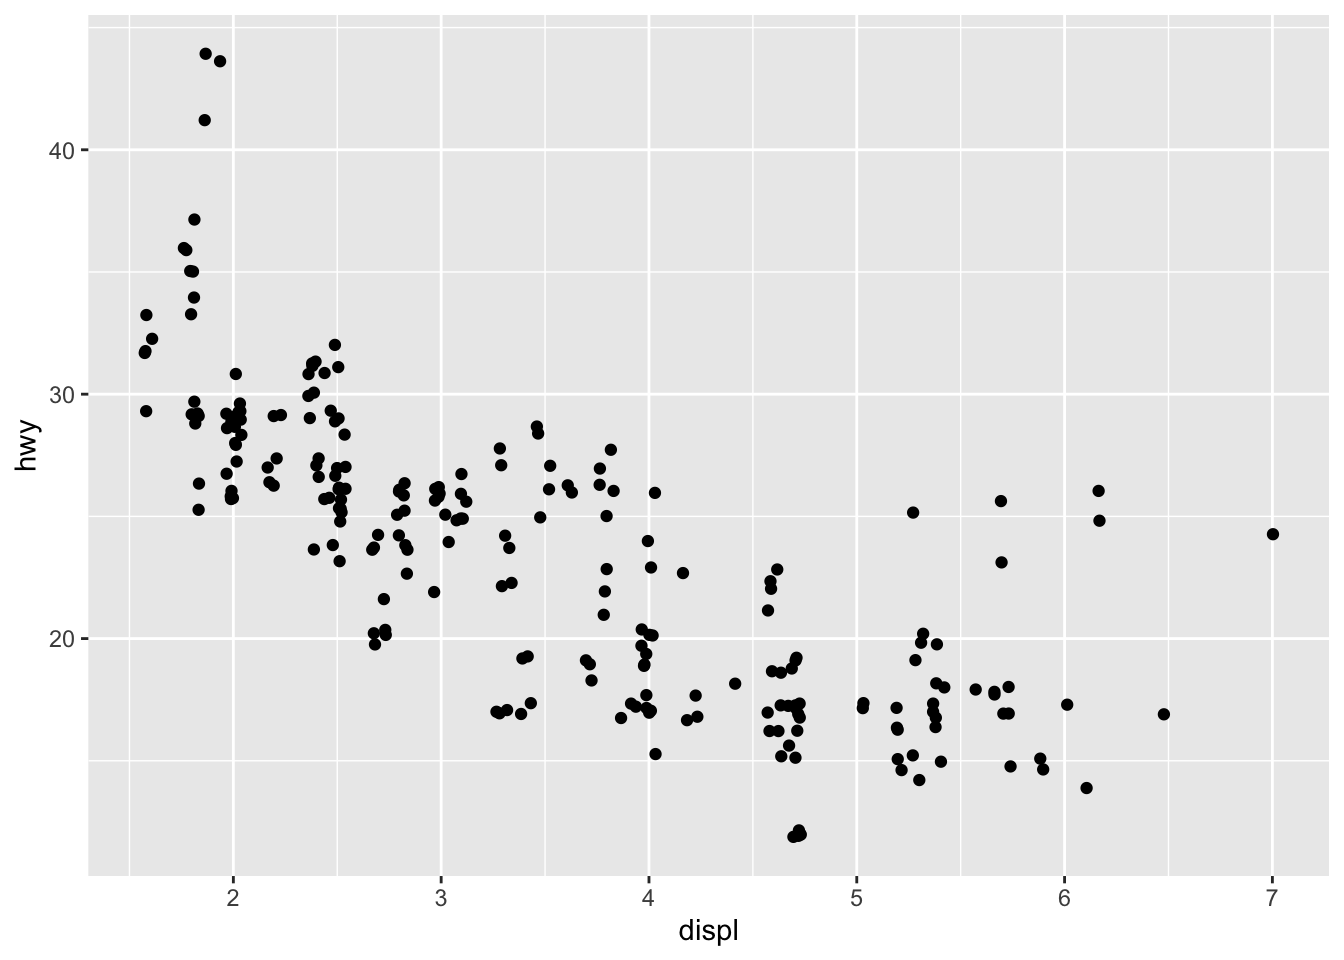
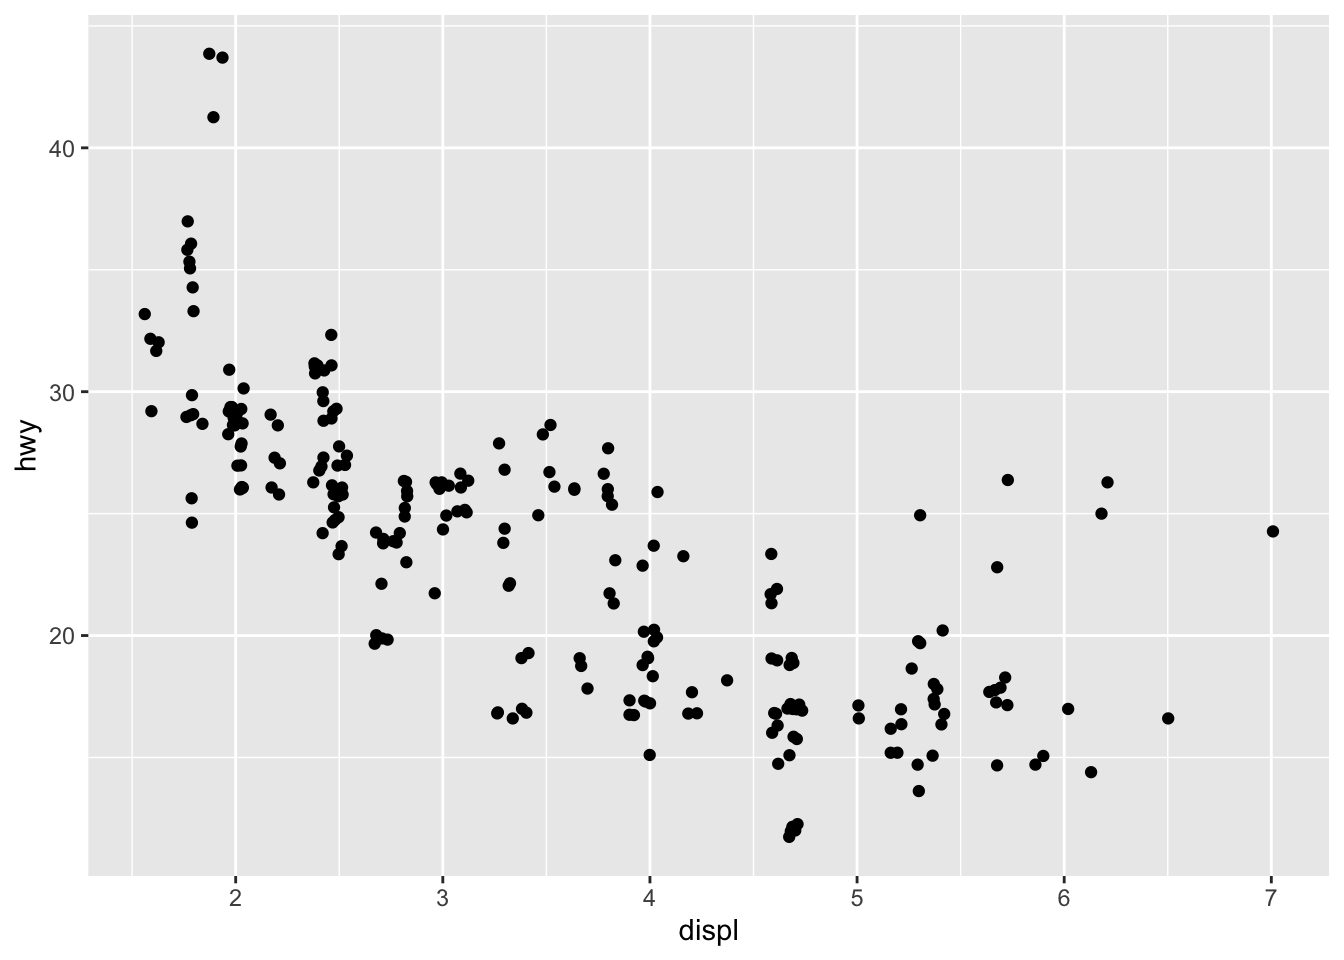
Exercícios: adiciona exercícios da Página 33

diff --git a/exercicios_cap_01.html b/exercicios_cap_01.html
@@ -69,15 +69,58 @@ pre > code.sourceCode > span > a:first-child::before { text-decoration: underlin
 <link href="exercicios_cap_01_files/libs/quarto-html/quarto-syntax-highlighting-ed96de9b727972fe78a7b5d16c58bf87.css" rel="stylesheet" id="quarto-text-highlighting-styles">
 <script src="exercicios_cap_01_files/libs/bootstrap/bootstrap.min.js"></script>
 <link href="exercicios_cap_01_files/libs/bootstrap/bootstrap-icons.css" rel="stylesheet">
-<link href="exercicios_cap_01_files/libs/bootstrap/bootstrap-d6a003b94517c951b2d65075d42fb01b.min.css" rel="stylesheet" append-hash="true" id="quarto-bootstrap" data-mode="light">
+<link href="exercicios_cap_01_files/libs/bootstrap/bootstrap-a74871fe4945b66d259aafc266475145.min.css" rel="stylesheet" append-hash="true" id="quarto-bootstrap" data-mode="light">
 
+  <script src="https://cdnjs.cloudflare.com/polyfill/v3/polyfill.min.js?features=es6"></script>
+  <script src="https://cdn.jsdelivr.net/npm/mathjax@3/es5/tex-chtml-full.js" type="text/javascript"></script>
+
+<script type="text/javascript">
+const typesetMath = (el) => {
+  if (window.MathJax) {
+    // MathJax Typeset
+    window.MathJax.typeset([el]);
+  } else if (window.katex) {
+    // KaTeX Render
+    var mathElements = el.getElementsByClassName("math");
+    var macros = [];
+    for (var i = 0; i < mathElements.length; i++) {
+      var texText = mathElements[i].firstChild;
+      if (mathElements[i].tagName == "SPAN" && texText && texText.data) {
+        window.katex.render(texText.data, mathElements[i], {
+          displayMode: mathElements[i].classList.contains('display'),
+          throwOnError: false,
+          macros: macros,
+          fleqn: false
+        });
+      }
+    }
+  }
+}
+window.Quarto = {
+  typesetMath
+};
+</script>
 
 </head>
 
-<body class="fullcontent quarto-light">
+<body class="quarto-light">
 
 <div id="quarto-content" class="page-columns page-rows-contents page-layout-article">
-
+<div id="quarto-margin-sidebar" class="sidebar margin-sidebar">
+  <nav id="TOC" role="doc-toc" class="toc-active">
+    <h2 id="toc-title">Table of contents</h2>
+   
+  <ul>
+  <li><a href="#página-6" id="toc-página-6" class="nav-link active" data-scroll-target="#página-6">Página 6</a></li>
+  <li><a href="#página-12" id="toc-página-12" class="nav-link" data-scroll-target="#página-12">Página 12</a></li>
+  <li><a href="#página-15" id="toc-página-15" class="nav-link" data-scroll-target="#página-15">Página 15</a></li>
+  <li><a href="#página-20" id="toc-página-20" class="nav-link" data-scroll-target="#página-20">Página 20</a></li>
+  <li><a href="#página-26" id="toc-página-26" class="nav-link" data-scroll-target="#página-26">Página 26</a></li>
+  <li><a href="#página-31" id="toc-página-31" class="nav-link" data-scroll-target="#página-31">Página 31</a></li>
+  <li><a href="#página-33" id="toc-página-33" class="nav-link" data-scroll-target="#página-33">Página 33</a></li>
+  </ul>
+<div class="quarto-alternate-formats"><h2>Other Formats</h2><ul><li><a href="exercicios_cap_01.pdf"><i class="bi bi-file-pdf"></i>PDF</a></li></ul></div></nav>
+</div>
 <main class="content" id="quarto-document-content">
 
 <header id="title-block-header" class="quarto-title-block default">
@@ -743,7 +786,157 @@ ggplot()+
 <ol start="3" type="1">
 <li>A maioria dos geoms e stats vem em pares, que são quase sempre usados juntos. Leia a documentação e faça uma lista de todos os pares. O que eles têm em comum?</li>
 </ol>
-<p><strong>Resposta:</strong> | Stat | Geom | | :—: | :—: | |<code>stat_align</code> | <code>geom_area</code>| |<code>stat_bin</code> | <code>geom_bar</code>| |<code>stat_bin_2d</code> | <code>geom_tile</code>| |<code>stat_bin_hex</code> | <code>geom_hex</code>| |<code>stat_bin2d</code> | <code>geom_tile</code>| |<code>stat_binhex</code> | <code>geom_hex</code>| |<code>stat_boxplot</code> | <code>geom_boxplot</code>| |<code>stat_connect</code> | <code>geom_path</code>| |<code>stat_contour</code> | <code>geom_contour</code>| |<code>stat_contour_filled</code> | <code>geom_contour_filled</code>| |<code>stat_count</code> | <code>geom_bar</code>| |<code>stat_density</code> | <code>geom_area</code>| |<code>stat_density_2d</code> | <code>geom_density2d</code>| |<code>stat_density2d_filled</code> | <code>geom_density2d_filled</code>| |<code>stat_ecdf</code> | <code>geom_step</code>| |<code>stat_ellipse</code> | <code>geom_path</code>| |<code>stat_function</code> | <code>geom_function</code>| |<code>stat_identity</code> | <code>geom_point</code>, <code>geom_spoke</code>| |<code>stat_manual</code> | <code>geom_point</code>| |<code>stat_qq</code> | <code>geom_point</code>| |<code>stat_qq_line</code> | <code>geom_abline</code>| |<code>stat_quantile</code> | <code>geom_quantile</code>| |<code>stat_sf</code> | <code>geom_rect</code>| |<code>stat_sf_coordinates</code> | <code>geom_point</code>| |<code>stat_smooth</code> | <code>geom_smooth</code>| |<code>stat_sum</code> | <code>geom_point</code>| |<code>stat_summary</code> | <code>geom_pointrange</code>| |<code>stat_summary_2d</code> | <code>geom_tile</code>| |<code>stat_summary_bin</code> | <code>geom_pointrange</code>| |<code>stat_summary_hex</code> | <code>geom_hex</code>| |<code>stat_summary2d</code> | <code>geom_tile</code>| |<code>stat_unique</code> | <code>geom_point</code>| |<code>stat_ydensity</code> | <code>geom_violin</code>| |<code>stat_smooth</code> | <code>geom_smooth</code>| |<code>stat_smooth</code> | <code>geom_smooth</code>|</p>
+<p><strong>Resposta:</strong></p>
+<table class="caption-top table">
+<thead>
+<tr class="header">
+<th style="text-align: center;">Stat</th>
+<th style="text-align: center;">Geom</th>
+</tr>
+</thead>
+<tbody>
+<tr class="odd">
+<td style="text-align: center;"><code>stat_align</code></td>
+<td style="text-align: center;"><code>geom_area</code></td>
+</tr>
+<tr class="even">
+<td style="text-align: center;"><code>stat_bin</code></td>
+<td style="text-align: center;"><code>geom_bar</code></td>
+</tr>
+<tr class="odd">
+<td style="text-align: center;"><code>stat_bin_2d</code></td>
+<td style="text-align: center;"><code>geom_tile</code></td>
+</tr>
+<tr class="even">
+<td style="text-align: center;"><code>stat_bin_hex</code></td>
+<td style="text-align: center;"><code>geom_hex</code></td>
+</tr>
+<tr class="odd">
+<td style="text-align: center;"><code>stat_bin2d</code></td>
+<td style="text-align: center;"><code>geom_tile</code></td>
+</tr>
+<tr class="even">
+<td style="text-align: center;"><code>stat_binhex</code></td>
+<td style="text-align: center;"><code>geom_hex</code></td>
+</tr>
+<tr class="odd">
+<td style="text-align: center;"><code>stat_boxplot</code></td>
+<td style="text-align: center;"><code>geom_boxplot</code></td>
+</tr>
+<tr class="even">
+<td style="text-align: center;"><code>stat_connect</code></td>
+<td style="text-align: center;"><code>geom_path</code></td>
+</tr>
+<tr class="odd">
+<td style="text-align: center;"><code>stat_contour</code></td>
+<td style="text-align: center;"><code>geom_contour</code></td>
+</tr>
+<tr class="even">
+<td style="text-align: center;"><code>stat_contour_filled</code></td>
+<td style="text-align: center;"><code>geom_contour_filled</code></td>
+</tr>
+<tr class="odd">
+<td style="text-align: center;"><code>stat_count</code></td>
+<td style="text-align: center;"><code>geom_bar</code></td>
+</tr>
+<tr class="even">
+<td style="text-align: center;"><code>stat_density</code></td>
+<td style="text-align: center;"><code>geom_area</code></td>
+</tr>
+<tr class="odd">
+<td style="text-align: center;"><code>stat_density_2d</code></td>
+<td style="text-align: center;"><code>geom_density2d</code></td>
+</tr>
+<tr class="even">
+<td style="text-align: center;"><code>stat_density2d_filled</code></td>
+<td style="text-align: center;"><code>geom_density2d_filled</code></td>
+</tr>
+<tr class="odd">
+<td style="text-align: center;"><code>stat_ecdf</code></td>
+<td style="text-align: center;"><code>geom_step</code></td>
+</tr>
+<tr class="even">
+<td style="text-align: center;"><code>stat_ellipse</code></td>
+<td style="text-align: center;"><code>geom_path</code></td>
+</tr>
+<tr class="odd">
+<td style="text-align: center;"><code>stat_function</code></td>
+<td style="text-align: center;"><code>geom_function</code></td>
+</tr>
+<tr class="even">
+<td style="text-align: center;"><code>stat_identity</code></td>
+<td style="text-align: center;"><code>geom_point</code>, <code>geom_spoke</code></td>
+</tr>
+<tr class="odd">
+<td style="text-align: center;"><code>stat_manual</code></td>
+<td style="text-align: center;"><code>geom_point</code></td>
+</tr>
+<tr class="even">
+<td style="text-align: center;"><code>stat_qq</code></td>
+<td style="text-align: center;"><code>geom_point</code></td>
+</tr>
+<tr class="odd">
+<td style="text-align: center;"><code>stat_qq_line</code></td>
+<td style="text-align: center;"><code>geom_abline</code></td>
+</tr>
+<tr class="even">
+<td style="text-align: center;"><code>stat_quantile</code></td>
+<td style="text-align: center;"><code>geom_quantile</code></td>
+</tr>
+<tr class="odd">
+<td style="text-align: center;"><code>stat_sf</code></td>
+<td style="text-align: center;"><code>geom_rect</code></td>
+</tr>
+<tr class="even">
+<td style="text-align: center;"><code>stat_sf_coordinates</code></td>
+<td style="text-align: center;"><code>geom_point</code></td>
+</tr>
+<tr class="odd">
+<td style="text-align: center;"><code>stat_smooth</code></td>
+<td style="text-align: center;"><code>geom_smooth</code></td>
+</tr>
+<tr class="even">
+<td style="text-align: center;"><code>stat_sum</code></td>
+<td style="text-align: center;"><code>geom_point</code></td>
+</tr>
+<tr class="odd">
+<td style="text-align: center;"><code>stat_summary</code></td>
+<td style="text-align: center;"><code>geom_pointrange</code></td>
+</tr>
+<tr class="even">
+<td style="text-align: center;"><code>stat_summary_2d</code></td>
+<td style="text-align: center;"><code>geom_tile</code></td>
+</tr>
+<tr class="odd">
+<td style="text-align: center;"><code>stat_summary_bin</code></td>
+<td style="text-align: center;"><code>geom_pointrange</code></td>
+</tr>
+<tr class="even">
+<td style="text-align: center;"><code>stat_summary_hex</code></td>
+<td style="text-align: center;"><code>geom_hex</code></td>
+</tr>
+<tr class="odd">
+<td style="text-align: center;"><code>stat_summary2d</code></td>
+<td style="text-align: center;"><code>geom_tile</code></td>
+</tr>
+<tr class="even">
+<td style="text-align: center;"><code>stat_unique</code></td>
+<td style="text-align: center;"><code>geom_point</code></td>
+</tr>
+<tr class="odd">
+<td style="text-align: center;"><code>stat_ydensity</code></td>
+<td style="text-align: center;"><code>geom_violin</code></td>
+</tr>
+<tr class="even">
+<td style="text-align: center;"><code>stat_smooth</code></td>
+<td style="text-align: center;"><code>geom_smooth</code></td>
+</tr>
+<tr class="odd">
+<td style="text-align: center;"><code>stat_smooth</code></td>
+<td style="text-align: center;"><code>geom_smooth</code></td>
+</tr>
+</tbody>
+</table>
 <p>Ambos apresentam a mesa camada do gráfico.</p>
 <ol start="4" type="1">
 <li>Quais variáveis <code>stat_smooth</code> calcula? Quais parâmetros controlam seu comportamento? <strong>Resposta:</strong></li>
@@ -868,6 +1061,71 @@ ggplot()+
 </div>
 </div>
 </div>
+</section>
+<section id="página-33" class="level2">
+<h2 class="anchored" data-anchor-id="página-33">Página 33</h2>
+<ol type="1">
+<li>Transforme um gráfico de barras empilhadas em um gráfico de pizza usando <code>coord_polar()</code>.</li>
+</ol>
+<p><strong>Resposta:</strong></p>
+<div class="cell">
+<div class="code-copy-outer-scaffold"><div class="sourceCode cell-code" id="cb71"><pre class="sourceCode r code-with-copy"><code class="sourceCode r"><span id="cb71-1"><a href="#cb71-1" aria-hidden="true" tabindex="-1"></a><span class="fu">ggplot</span>(<span class="at">data =</span> diamonds)<span class="sc">+</span></span>
+<span id="cb71-2"><a href="#cb71-2" aria-hidden="true" tabindex="-1"></a>  <span class="fu">geom_bar</span>(<span class="at">mapping =</span> <span class="fu">aes</span>(<span class="at">x =</span> cut, <span class="at">fill =</span> clarity))<span class="sc">+</span></span>
+<span id="cb71-3"><a href="#cb71-3" aria-hidden="true" tabindex="-1"></a>  <span class="fu">coord_polar</span>()</span></code></pre></div><button title="Copy to Clipboard" class="code-copy-button"><i class="bi"></i></button></div>
+<div class="cell-output-display">
+<div>
+<figure class="figure">
+<p><img src="exercicios_cap_01_files/figure-html/unnamed-chunk-36-1.png" class="img-fluid figure-img" width="672"></p>
+</figure>
+</div>
+</div>
+</div>
+<ol start="2" type="1">
+<li><p>O que <code>labs()</code> faz? Leia a documentação. <strong>Resposta:</strong> Adiciona título, subtítulo, legendas aos eixos e legenda ao gráfico.</p></li>
+<li><p>Qual é a diferença entre <code>coord_quickmap()</code> e <code>coord_map</code>?</p></li>
+</ol>
+<div class="cell">
+<div class="code-copy-outer-scaffold"><div class="sourceCode cell-code" id="cb72"><pre class="sourceCode r code-with-copy"><code class="sourceCode r"><span id="cb72-1"><a href="#cb72-1" aria-hidden="true" tabindex="-1"></a>nz <span class="ot">&lt;-</span> <span class="fu">map_data</span>(<span class="st">"nz"</span>)</span>
+<span id="cb72-2"><a href="#cb72-2" aria-hidden="true" tabindex="-1"></a></span>
+<span id="cb72-3"><a href="#cb72-3" aria-hidden="true" tabindex="-1"></a><span class="fu">ggplot</span>(nz, <span class="fu">aes</span>(long, lat, <span class="at">group =</span> group))<span class="sc">+</span></span>
+<span id="cb72-4"><a href="#cb72-4" aria-hidden="true" tabindex="-1"></a>  <span class="fu">geom_polygon</span>(<span class="at">fill =</span> <span class="st">"white"</span>, <span class="at">color =</span> <span class="st">"black"</span>)<span class="sc">+</span></span>
+<span id="cb72-5"><a href="#cb72-5" aria-hidden="true" tabindex="-1"></a>  <span class="fu">coord_quickmap</span>()</span></code></pre></div><button title="Copy to Clipboard" class="code-copy-button"><i class="bi"></i></button></div>
+<div class="cell-output-display">
+<div>
+<figure class="figure">
+<p><img src="exercicios_cap_01_files/figure-html/unnamed-chunk-37-1.png" class="img-fluid figure-img" width="672"></p>
+</figure>
+</div>
+</div>
+<div class="code-copy-outer-scaffold"><div class="sourceCode cell-code" id="cb73"><pre class="sourceCode r code-with-copy"><code class="sourceCode r"><span id="cb73-1"><a href="#cb73-1" aria-hidden="true" tabindex="-1"></a><span class="fu">ggplot</span>(nz, <span class="fu">aes</span>(long, lat, <span class="at">group =</span> group))<span class="sc">+</span></span>
+<span id="cb73-2"><a href="#cb73-2" aria-hidden="true" tabindex="-1"></a>  <span class="fu">geom_polygon</span>(<span class="at">fill =</span> <span class="st">"white"</span>, <span class="at">color =</span> <span class="st">"black"</span>)<span class="sc">+</span></span>
+<span id="cb73-3"><a href="#cb73-3" aria-hidden="true" tabindex="-1"></a>  <span class="fu">coord_map</span>()</span></code></pre></div><button title="Copy to Clipboard" class="code-copy-button"><i class="bi"></i></button></div>
+<div class="cell-output-display">
+<div>
+<figure class="figure">
+<p><img src="exercicios_cap_01_files/figure-html/unnamed-chunk-37-2.png" class="img-fluid figure-img" width="672"></p>
+</figure>
+</div>
+</div>
+</div>
+<p><strong>Resposta:</strong> Olhando assim, parece que não há diferença. Mas na documentação está escrito que <code>coord_map()</code> corrige as curvas e linhas e <code>coord_quickmap()</code> é uma aproximação rápida que preserva as linhas retas mas ignora a curvatura da terra. <code>coord_map()</code> é melhor para projetar áreas grandes do mundo inteiro, já <code>coord_map()</code> trabalha melhor com áreas menores próximas à linha do equador, onde a distorção é mínima.</p>
+<ol start="4" type="1">
+<li>O que o gráfico a seguir lhe diz sobre a relação entre <code>mpg</code> de cidade e estrada? Por que <code>coord_fixed()</code> é importante? O que <code>geom_abline()</code> faz?</li>
+</ol>
+<div class="cell">
+<div class="code-copy-outer-scaffold"><div class="sourceCode cell-code" id="cb74"><pre class="sourceCode r code-with-copy"><code class="sourceCode r"><span id="cb74-1"><a href="#cb74-1" aria-hidden="true" tabindex="-1"></a><span class="fu">ggplot</span>(<span class="at">data =</span> mpg, <span class="at">mapping =</span> <span class="fu">aes</span>(<span class="at">x =</span> cty, <span class="at">y =</span> hwy))<span class="sc">+</span></span>
+<span id="cb74-2"><a href="#cb74-2" aria-hidden="true" tabindex="-1"></a>  <span class="fu">geom_point</span>()<span class="sc">+</span></span>
+<span id="cb74-3"><a href="#cb74-3" aria-hidden="true" tabindex="-1"></a>    <span class="fu">geom_abline</span>()<span class="sc">+</span></span>
+<span id="cb74-4"><a href="#cb74-4" aria-hidden="true" tabindex="-1"></a>  <span class="fu">coord_fixed</span>()</span></code></pre></div><button title="Copy to Clipboard" class="code-copy-button"><i class="bi"></i></button></div>
+<div class="cell-output-display">
+<div>
+<figure class="figure">
+<p><img src="exercicios_cap_01_files/figure-html/unnamed-chunk-38-1.png" class="img-fluid figure-img" width="672"></p>
+</figure>
+</div>
+</div>
+</div>
+<p><strong>Resposta:</strong> Que na cidade geralmente se gasta mais combustível do que na estrada. O <code>coord_fixed()</code> é importante porque força uma proprção específica entre a representação de unidades dos dados nos eixos. A proporção representa o número de unidades de y equivalente a uma unidade de x. Já o <code>geom_abline()</code> traça uma linha onde <code>x = y</code> para entender melhor se <span class="math inline">\(y &gt; x\)</span>, ou <span class="math inline">\(y &lt; x\)</span>. No caso desse gráfico, <span class="math inline">\(y &gt; x\)</span>.</p>
 </section>
 
 </main>